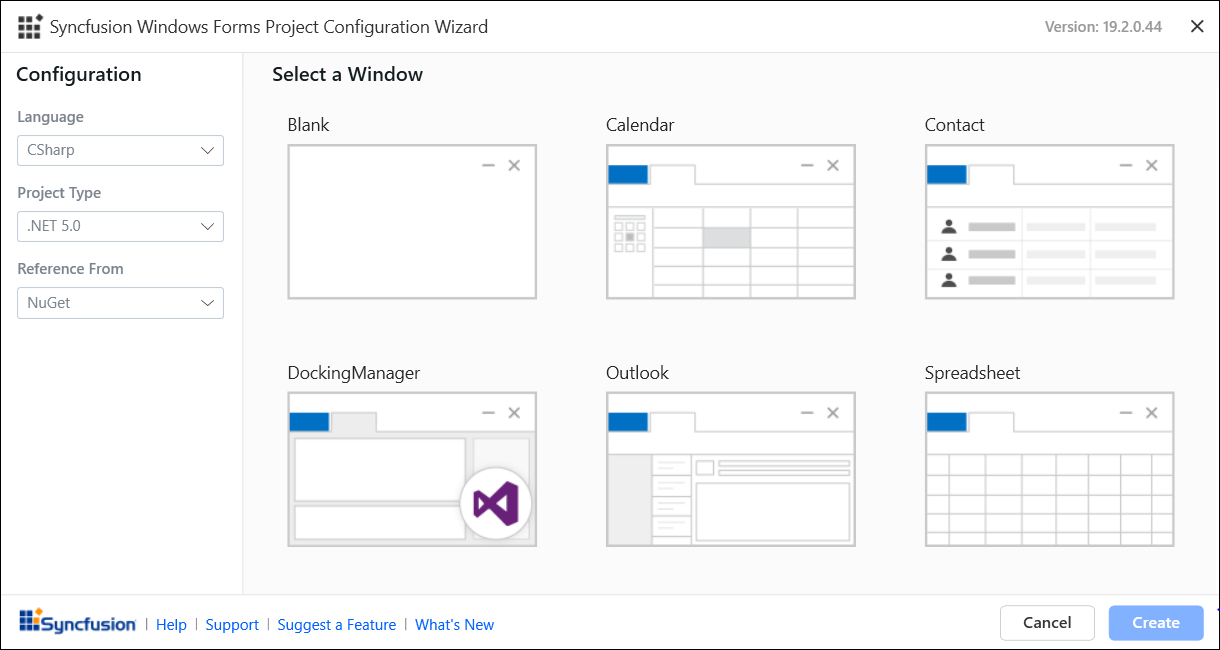
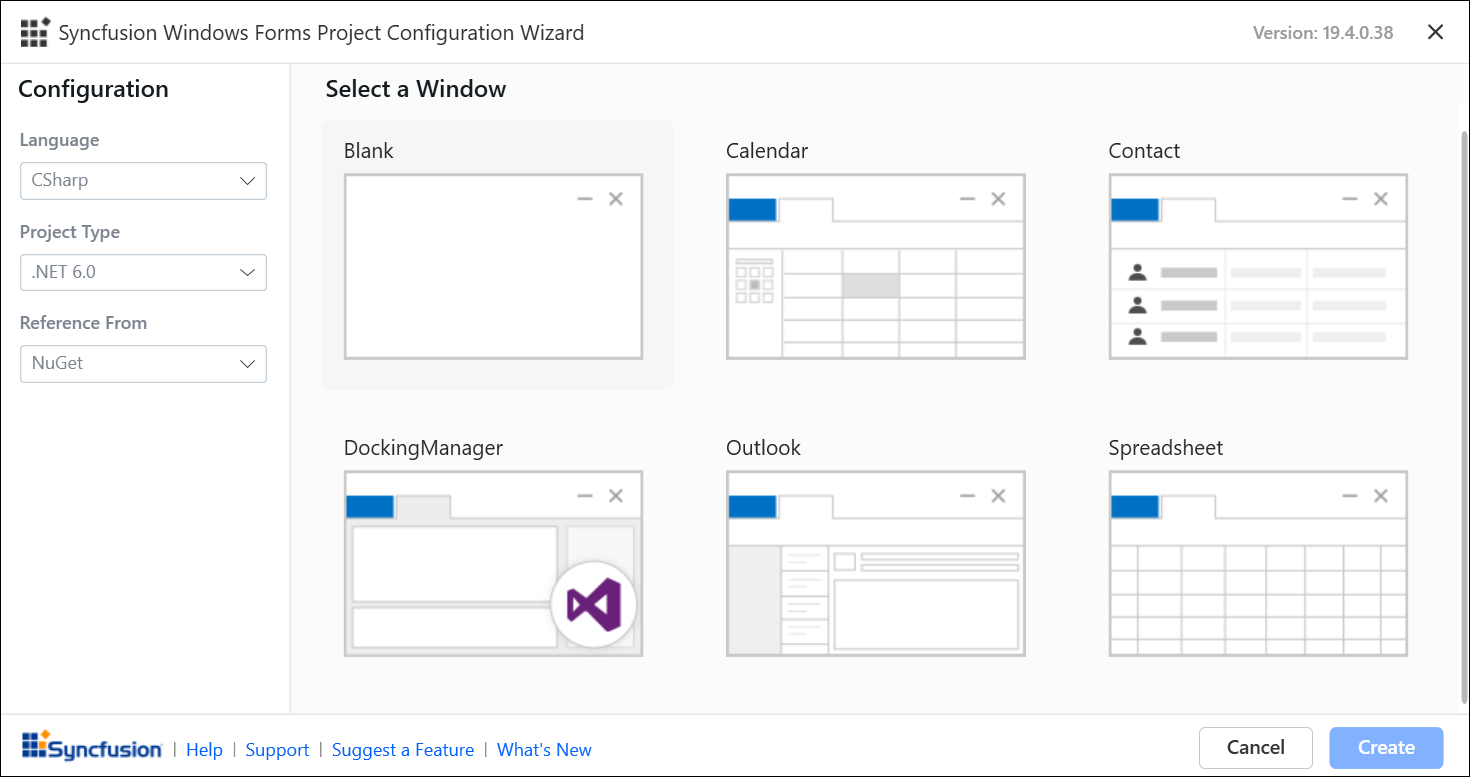
extension UG changes

diff --git a/WindowsForms/Visual-Studio-Integration/VS2019-Extensions/Create-Project.md b/WindowsForms/Visual-Studio-Integration/VS2019-Extensions/Create-Project.md
@@ -44,6 +44,8 @@ Use the following steps to create the Syncfusion Windows Forms project through t
   
    ![Syncfusion Windows Forms project configuration wizard](Project-Template-images\Syncfusion-Project-Template-Gallery2019-2.png)
 
+   N> Project Type NET 6.0 was available from V19.4.0.38. 
+
    In Visual Studio 2017 or lower, Syncfusion Windows Forms Application project configuration wizard.
 
    ![Syncfusion Windows Forms project configuration wizard](Project-Template-images\Syncfusion-Project-Template-Gallery-2.png)
